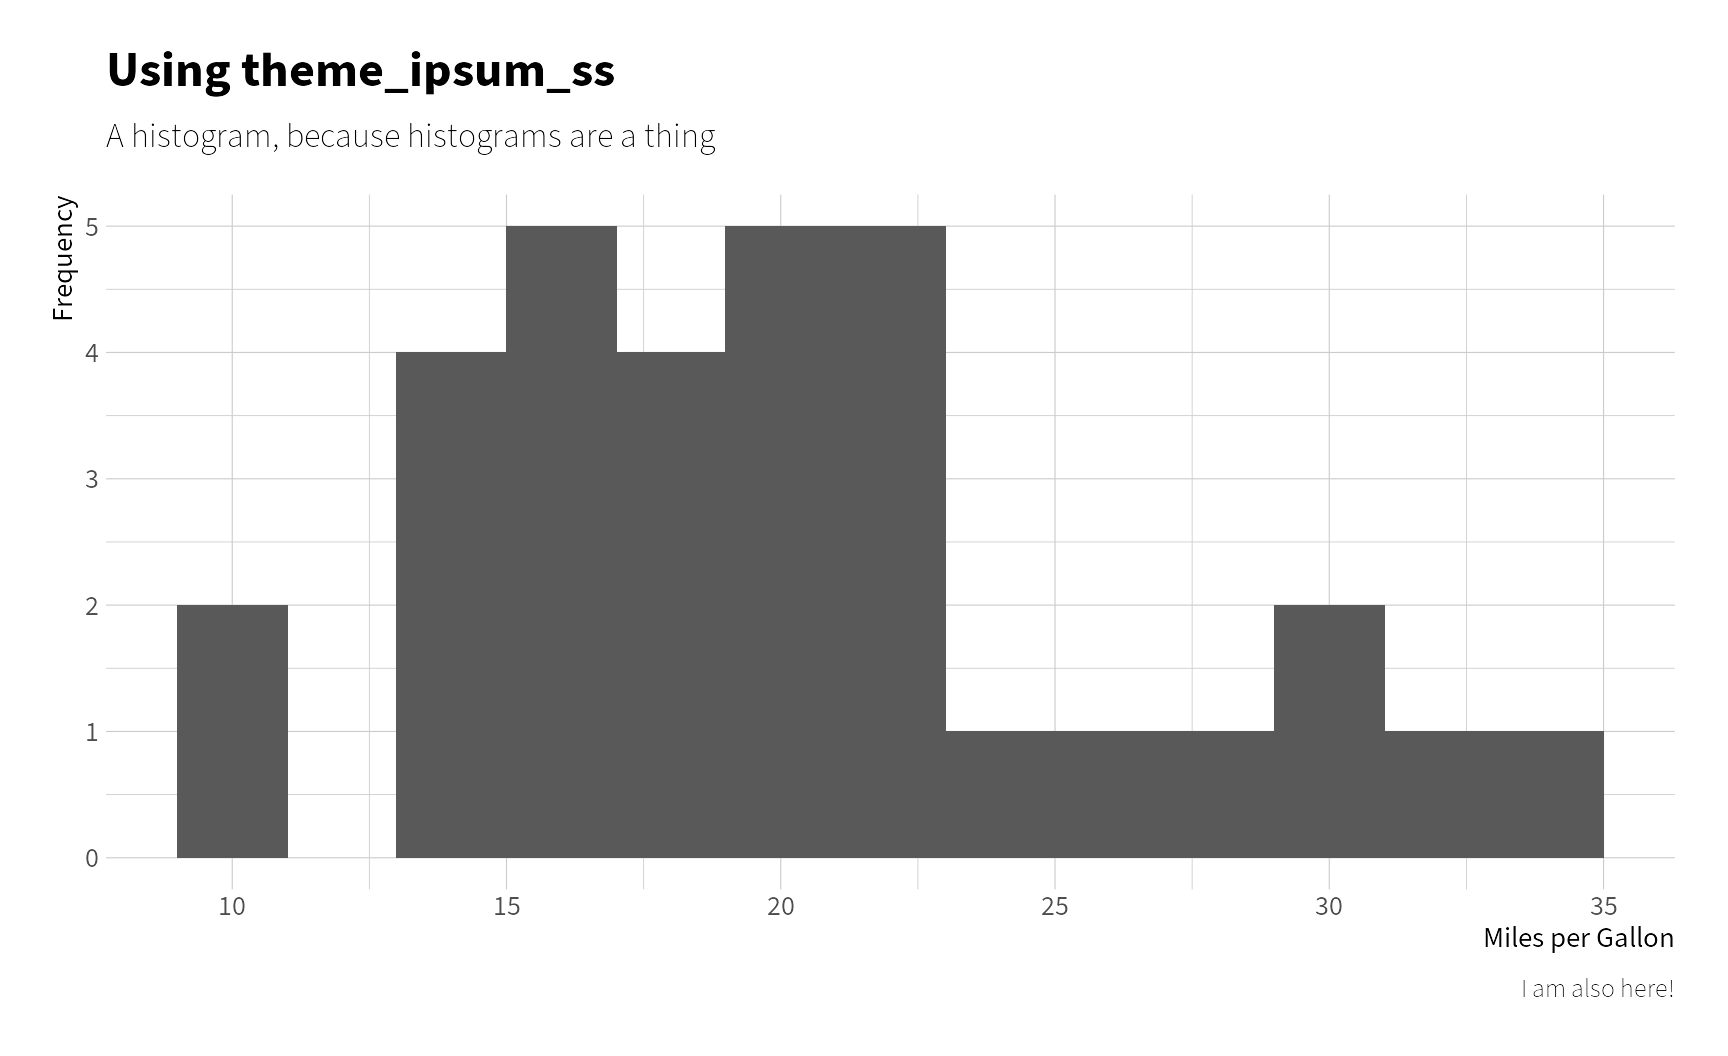
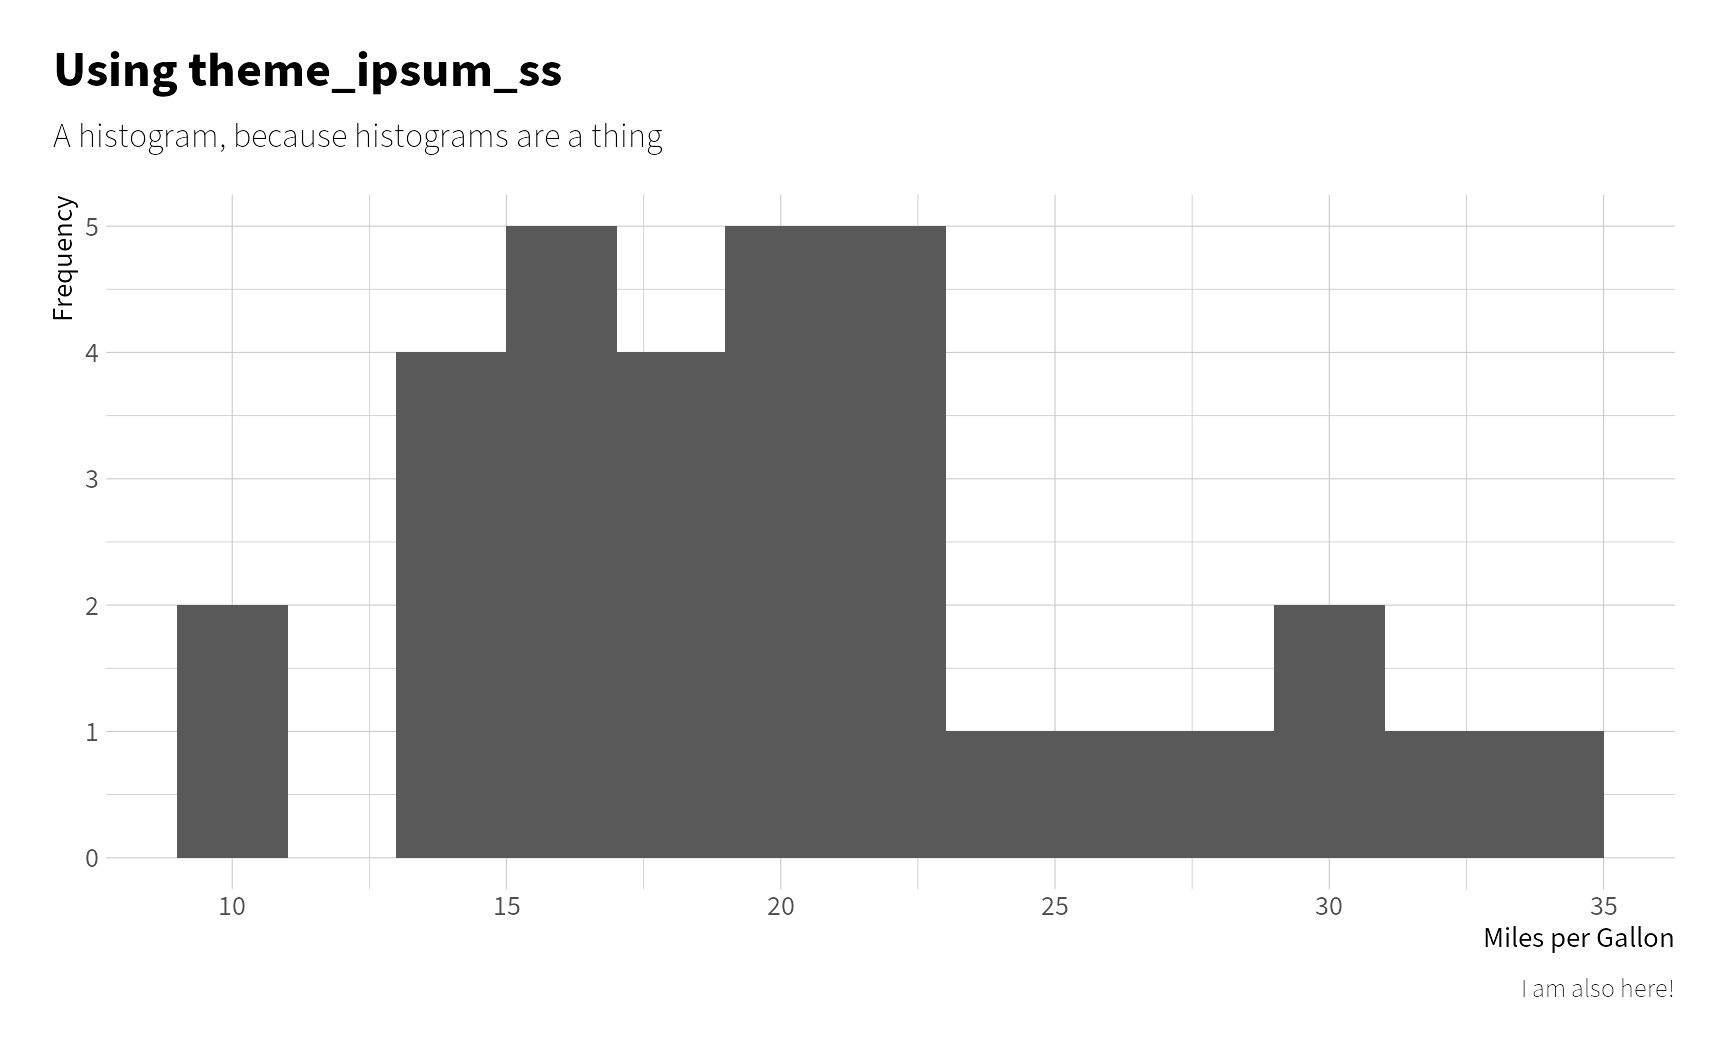
Built site for tadaathemes: 0.0.1@

Changed region(s): [[0.0312, 0.0312, 0.375, 0.0938], [0.0625, 0.125, 0.4062, 0.1562]]

diff --git a/reference/theme_ipsum_ss.html b/reference/theme_ipsum_ss.html
@@ -156,11 +156,14 @@
   axis_title_face <span class='op'>=</span> <span class='st'>"plain"</span>,
   axis_title_just <span class='op'>=</span> <span class='st'>"rt"</span>,
   plot_margin <span class='op'>=</span> <span class='fu'>margin</span><span class='op'>(</span><span class='fl'>20</span>, <span class='fl'>20</span>, <span class='fl'>20</span>, <span class='fl'>20</span><span class='op'>)</span>,
+  panel_spacing <span class='op'>=</span> <span class='fu'>grid</span><span class='fu'>::</span><span class='fu'><a href='https://rdrr.io/r/grid/unit.html'>unit</a></span><span class='op'>(</span><span class='fl'>2</span>, <span class='st'>"lines"</span><span class='op'>)</span>,
   grid_col <span class='op'>=</span> <span class='st'>"#cccccc"</span>,
   grid <span class='op'>=</span> <span class='cn'>TRUE</span>,
   axis_col <span class='op'>=</span> <span class='st'>"#cccccc"</span>,
   axis <span class='op'>=</span> <span class='cn'>FALSE</span>,
-  ticks <span class='op'>=</span> <span class='cn'>FALSE</span>
+  ticks <span class='op'>=</span> <span class='cn'>FALSE</span>,
+  legend_position <span class='op'>=</span> <span class='st'>"top"</span>,
+  plot_title_position <span class='op'>=</span> <span class='st'>"plot"</span>
 <span class='op'>)</span></pre>
 
     <h2 class="hasAnchor" id="arguments"><a class="anchor" href="#arguments"></a>Arguments</h2>
@@ -200,11 +203,15 @@
     </tr>
     <tr>
       <th>axis_title_just</th>
-      <td><p>axis title font justification, one of <code>[blmcrt]</code></p></td>
+      <td><p>axis title font justificationk one of <code>[blmcrt]</code></p></td>
     </tr>
     <tr>
       <th>plot_margin</th>
       <td><p>plot margin (specify with ggplot2::margin)</p></td>
+    </tr>
+    <tr>
+      <th>panel_spacing</th>
+      <td><p>panel spacing (use <code>unit()</code>)</p></td>
     </tr>
     <tr>
       <th>grid_col</th>
@@ -225,6 +232,16 @@
     <tr>
       <th>ticks</th>
       <td><p>ticks if <code>TRUE</code> add ticks</p></td>
+    </tr>
+    <tr>
+      <th>legend_position</th>
+      <td><p>Same as <code>legend.position</code> in <code><a href='https://ggplot2.tidyverse.org/reference/theme.html'>ggplot2::theme()</a></code>, defaulting
+to <code>"top"</code>.</p></td>
+    </tr>
+    <tr>
+      <th>plot_title_position</th>
+      <td><p>Same as <code>plot.title.position</code> in <code><a href='https://ggplot2.tidyverse.org/reference/theme.html'>ggplot2::theme()</a></code>,
+defaulting to <code>"plot"</code>.</p></td>
     </tr>
     </table>
 

diff --git a/articles/tadaa-themes.html b/articles/tadaa-themes.html
@@ -79,12 +79,12 @@
 
       
 
-      </header><script src="tadaa-themes_files/header-attrs-2.3.10/header-attrs.js"></script><div class="row">
+      </header><script src="tadaa-themes_files/header-attrs-2.3.11/header-attrs.js"></script><div class="row">
   <div class="col-md-9 contents">
     <div class="page-header toc-ignore">
       <h1 data-toc-skip>Tadaa, Themes!</h1>
             
-            <h4 class="date">2020-09-29 17:18:26</h4>
+            <h4 class="date">2020-09-30 16:55:28</h4>
       
       <small class="dont-index">Source: <a href="https://github.com/tadaadata/tadaathemes/blob/master/vignettes/tadaa-themes.Rmd"><code>vignettes/tadaa-themes.Rmd</code></a></small>
       <div class="hidden name"><code>tadaa-themes.Rmd</code></div>

diff --git a/articles/tadaa-themes_files/header-attrs-2.3.11/header-attrs.js b/articles/tadaa-themes_files/header-attrs-2.3.11/header-attrs.js
@@ -1,0 +1,12 @@
+// Pandoc 2.9 adds attributes on both header and div. We remove the former (to
+// be compatible with the behavior of Pandoc < 2.8).
+document.addEventListener('DOMContentLoaded', function(e) {
+  var hs = document.querySelectorAll("div.section[class*='level'] > :first-child");
+  var i, h, a;
+  for (i = 0; i < hs.length; i++) {
+    h = hs[i];
+    if (!/^h[1-6]$/i.test(h.tagName)) continue;  // it should be a header h1-h6
+    a = h.attributes;
+    while (a.length > 0) h.removeAttribute(a[0].name);
+  }
+});
